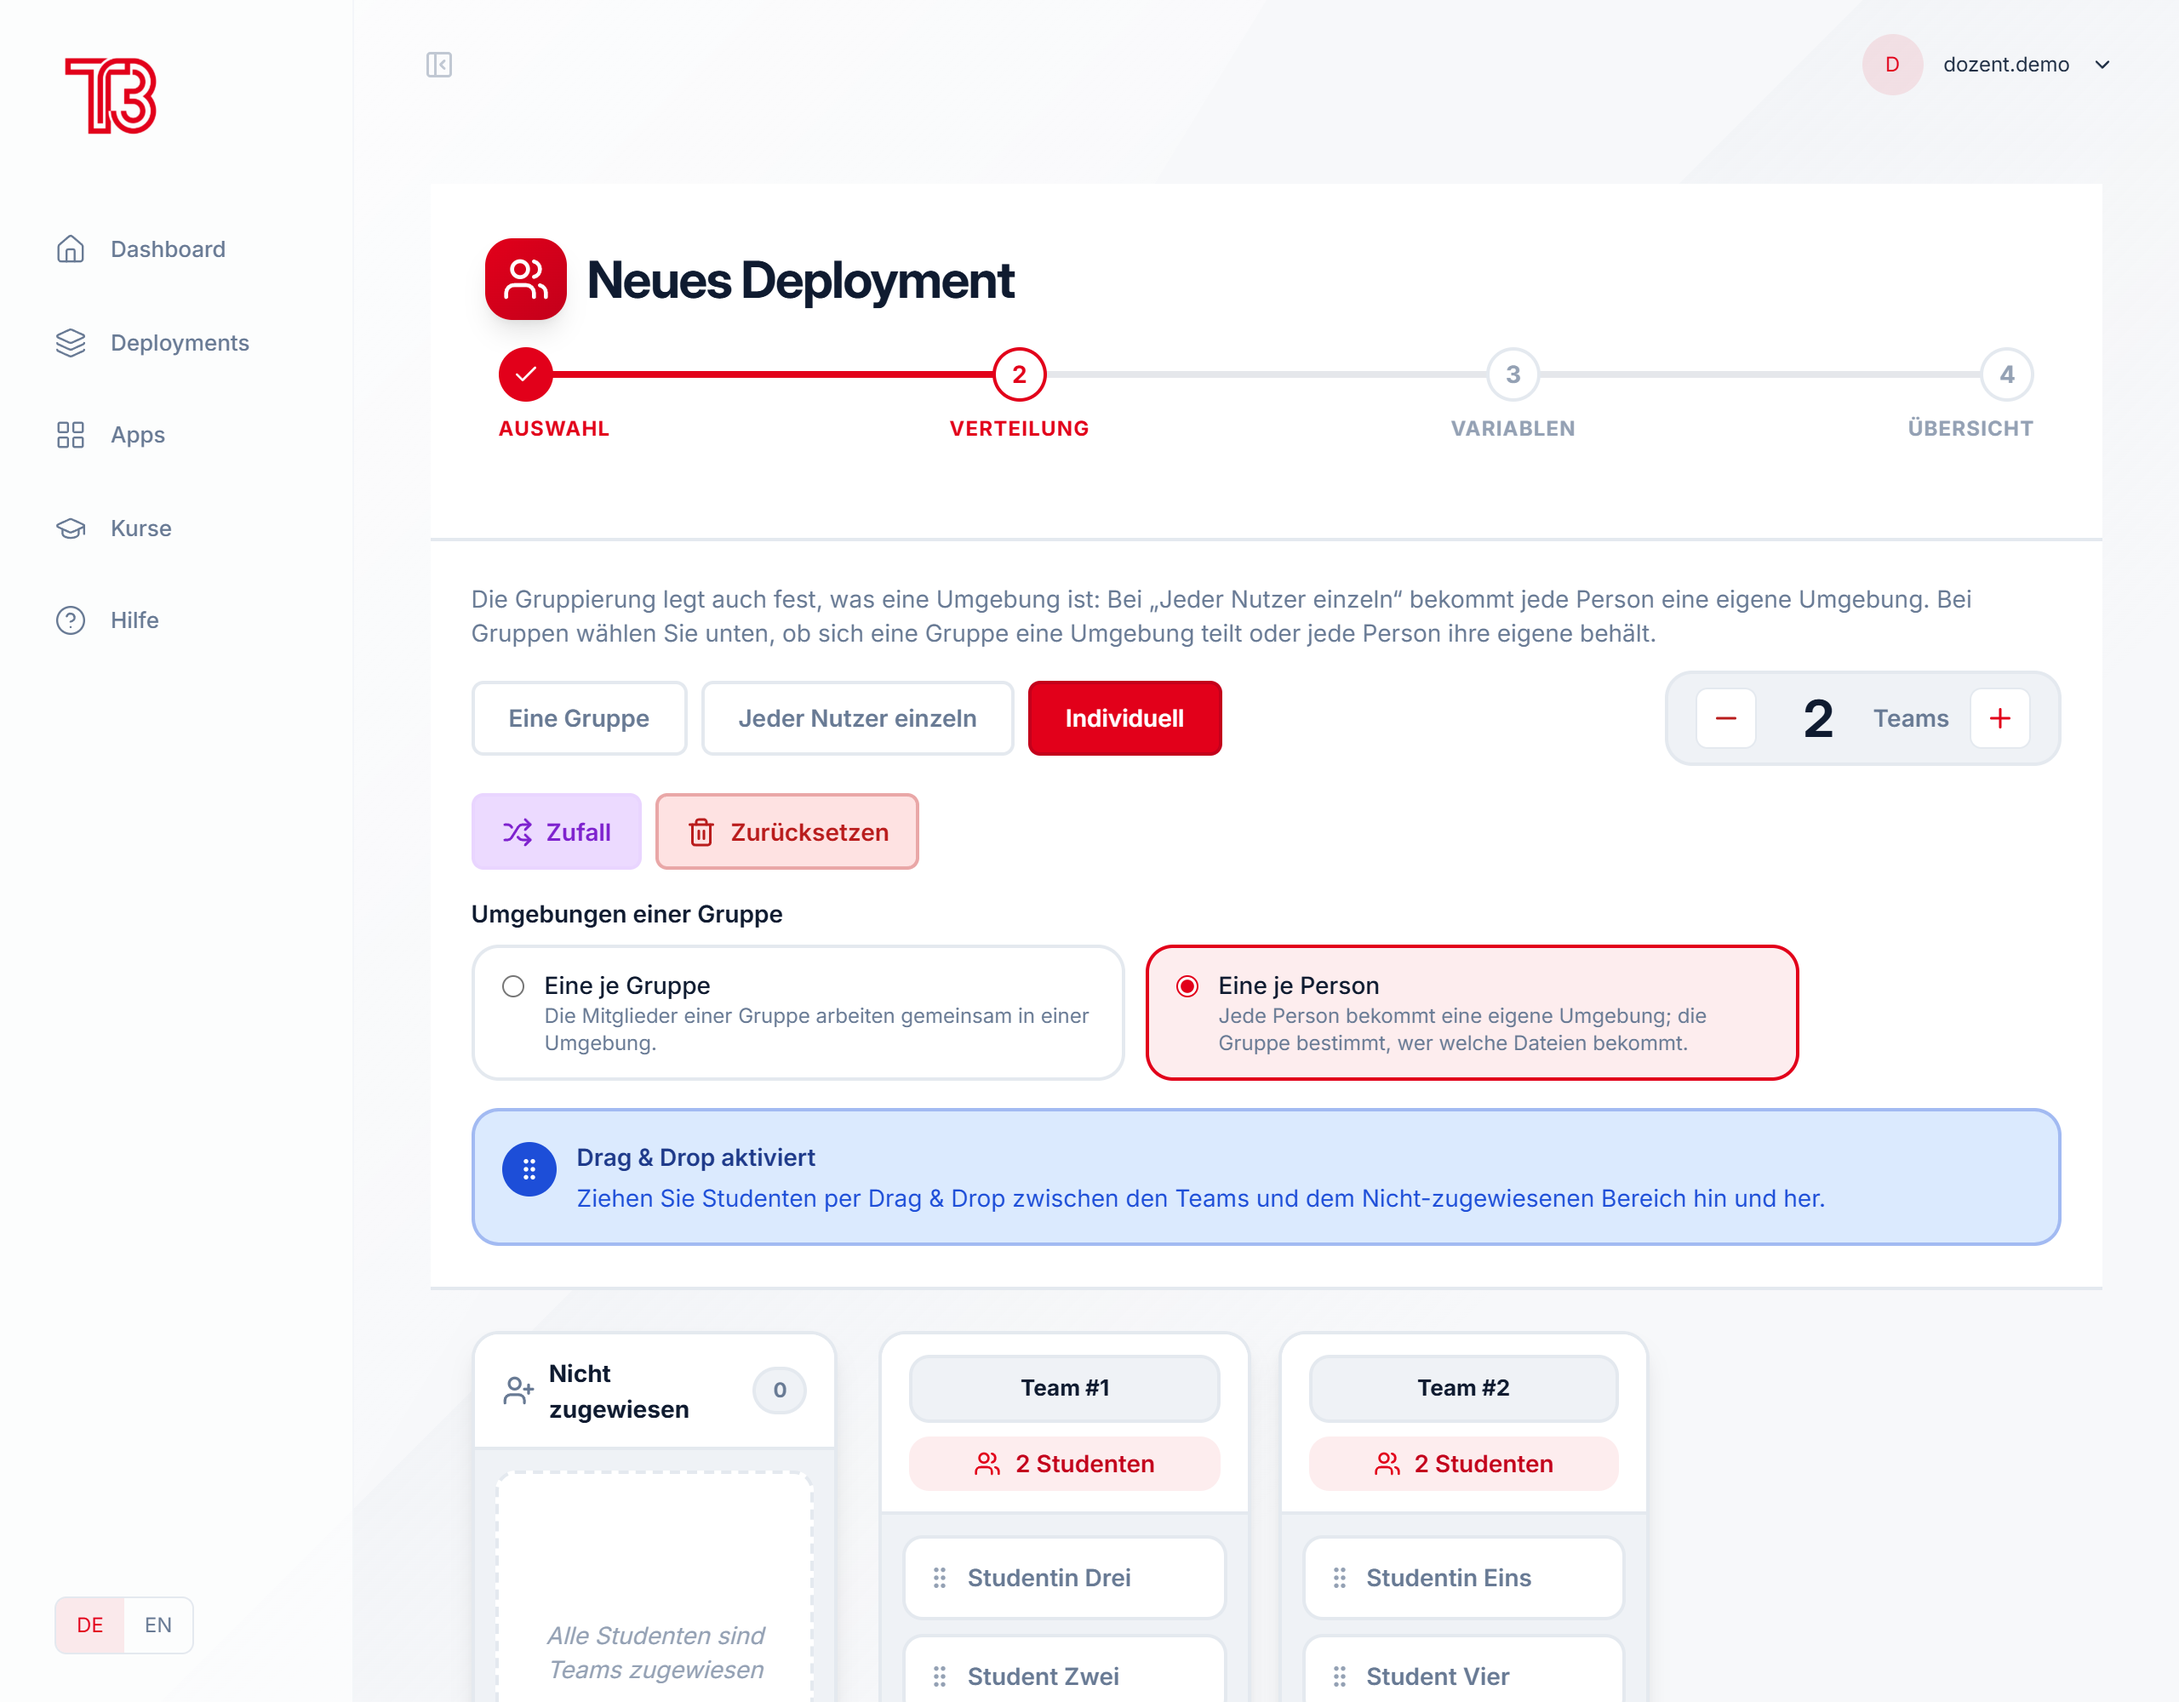
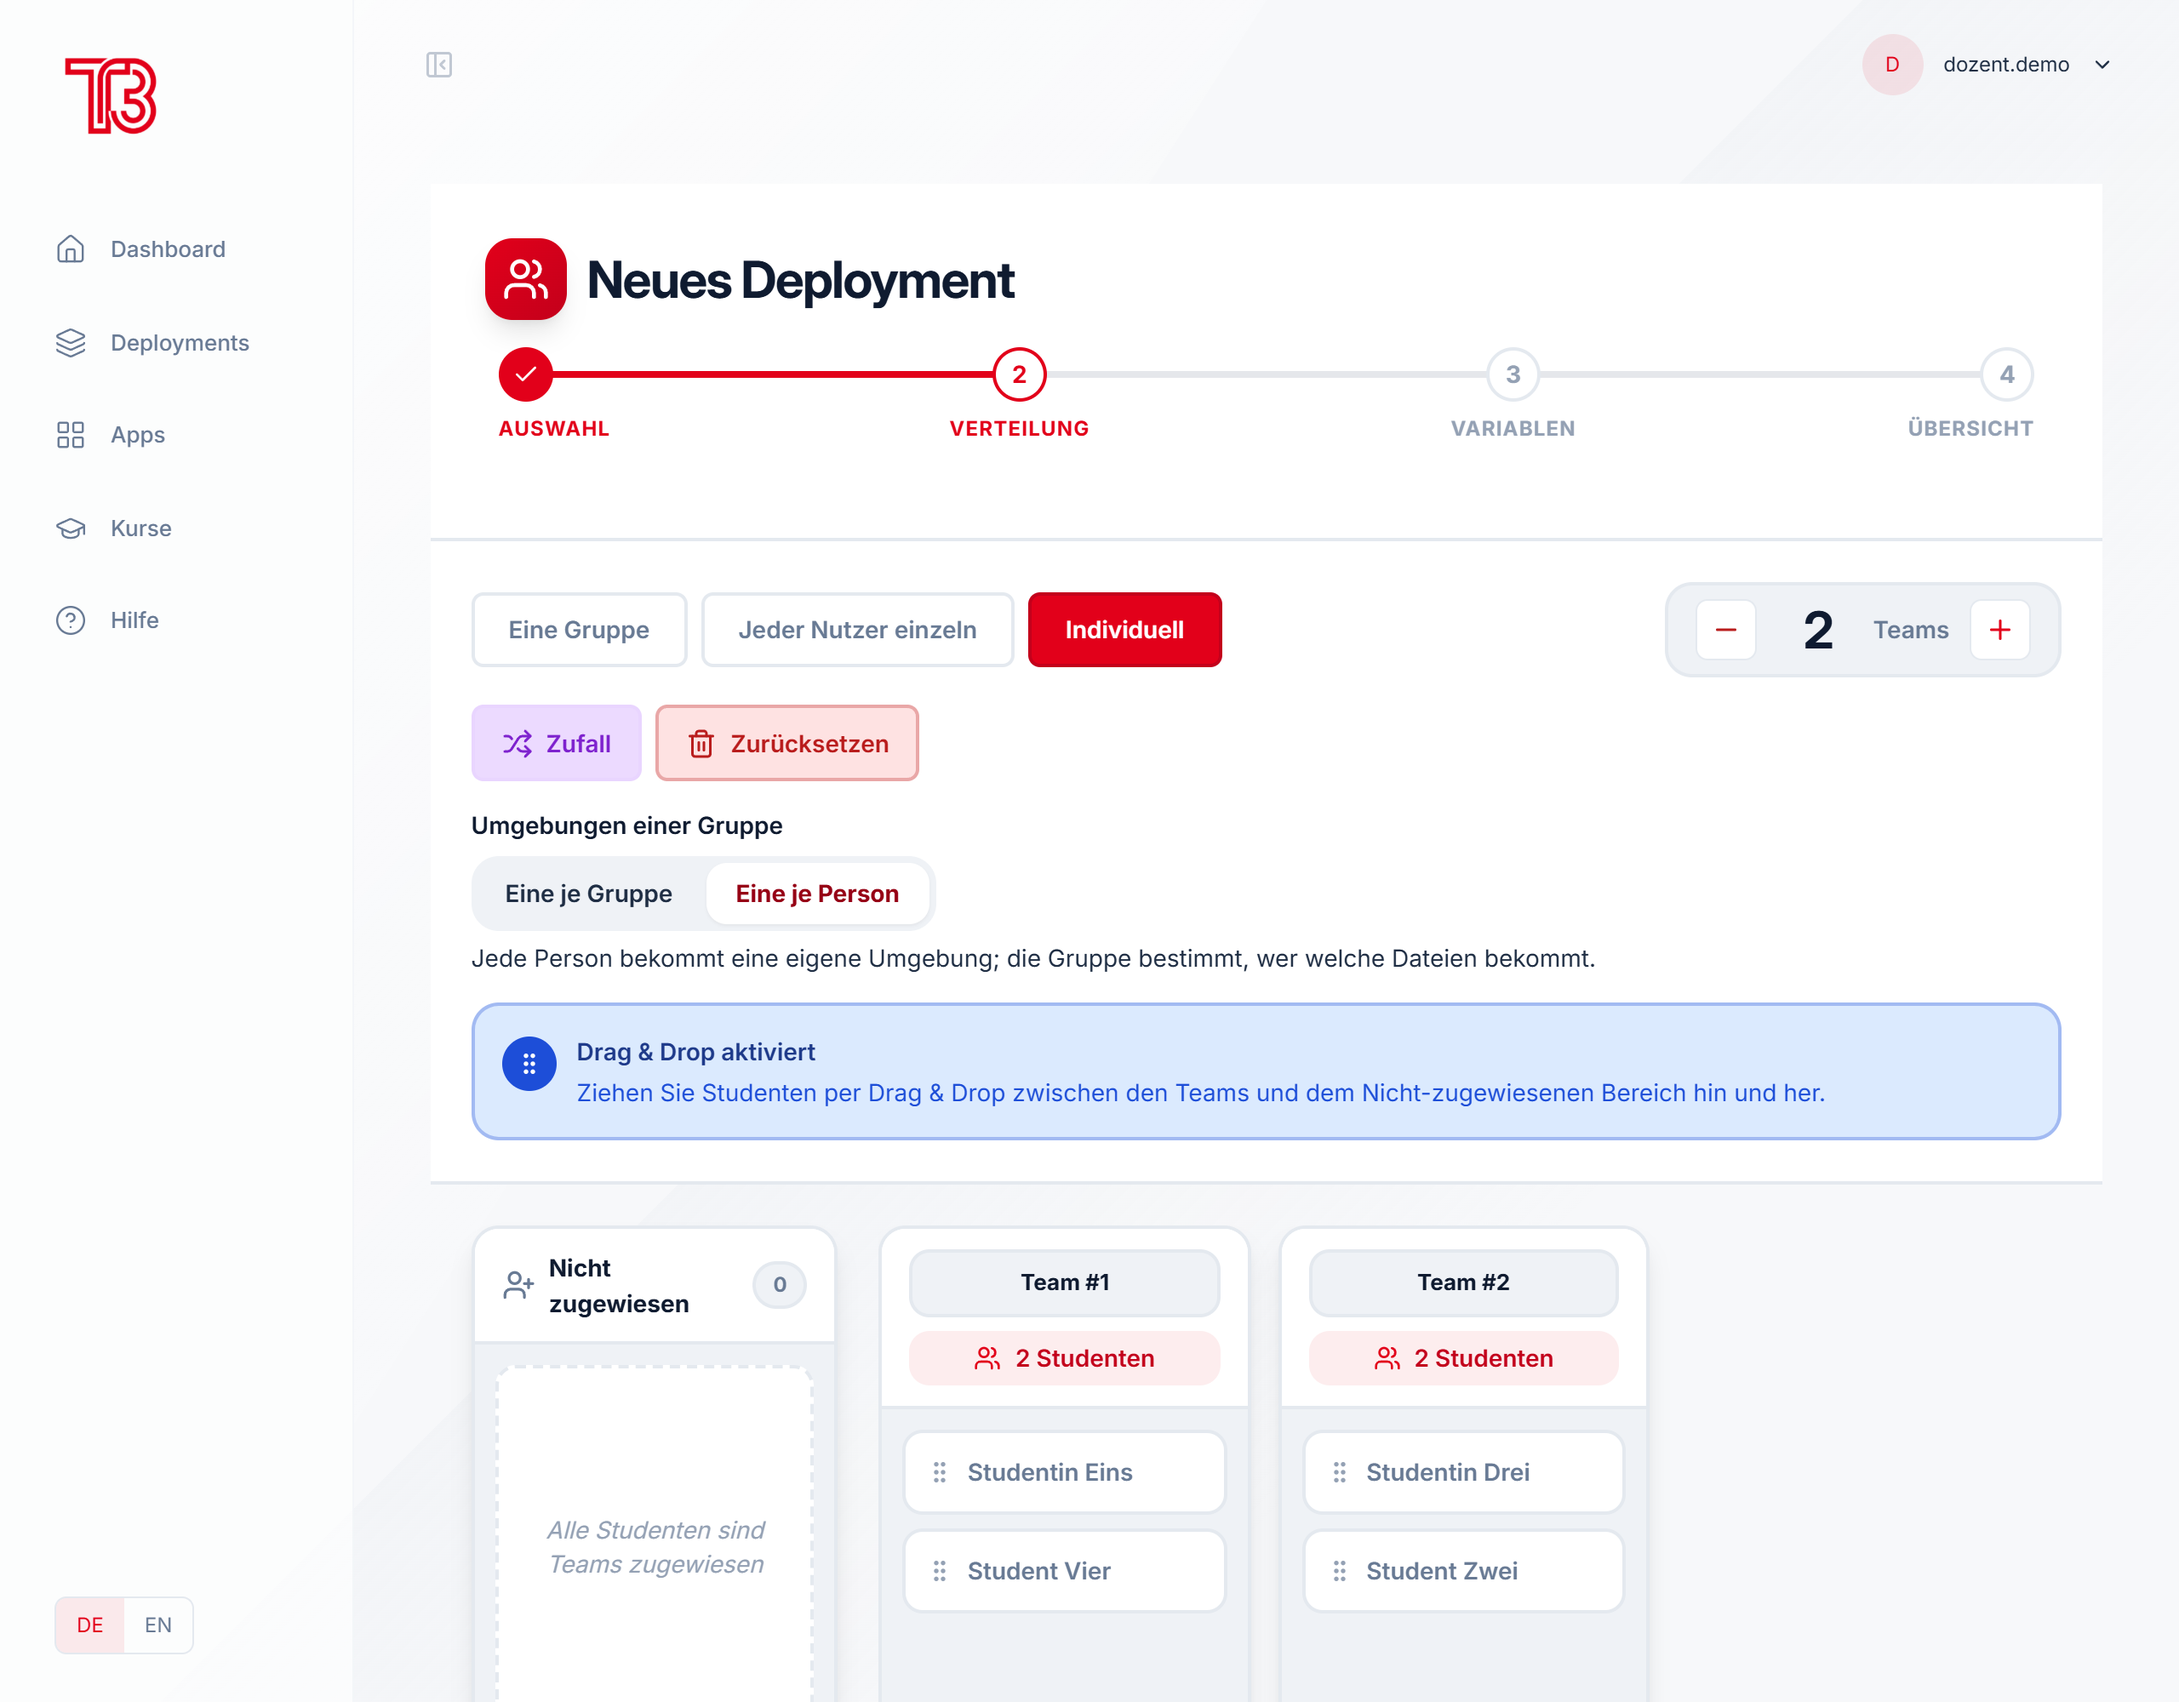
docs: the compact environment choice in step 2 (screenshot, text) and the chip in the summary

diff --git a/docs/DokumentationEndnutzer.md b/docs/DokumentationEndnutzer.md
@@ -301,12 +301,12 @@ Alternativ können Sie in der Deployment-Übersicht oben rechts auf **+ Neues De
 
    Die Verteilung legt auch fest, wie viele Umgebungen (Pods bzw. Desktops) entstehen:
    * Läuft die App **je Person** (Hinweis „App läuft je Person“), bekommt jede Person ein eigenes Team und eine eigene Umgebung; die Verteilung ist dann fest.
-   * Lässt die App die Wahl (auf der App-Seite „je Person oder je Gruppe“), bekommt bei **Jeder Nutzer einzeln** jede Person eine eigene Umgebung. Bei **Eine Gruppe** und **Individuell** wählen Sie unter den Schaltflächen:
+   * Lässt die App die Wahl (auf der App-Seite „je Person oder je Gruppe“), bekommt bei **Jeder Nutzer einzeln** jede Person eine eigene Umgebung. Bei **Eine Gruppe** und **Individuell** wählen Sie unter „Umgebungen einer Gruppe“; darunter steht, was die gewählte Option bedeutet:
      * **Eine je Gruppe:** Die Mitglieder einer Gruppe arbeiten gemeinsam in einer Umgebung.
      * **Eine je Person:** Jede Person bekommt eine eigene Umgebung; die Gruppe bestimmt nur, wer welche Dateien bekommt (z. B. ein Aufgaben-ZIP je Gruppe in der Online-IDE).
    * Sonst bekommt jedes Team eine gemeinsame Umgebung.
 
-   Die Übersicht in Schritt 4 sagt, was daraus wird; erlaubt die App eine Ressourcenauswahl, nennt sie auch die Summe für alle Umgebungen.
+   Die Übersicht in Schritt 4 nennt die Wahl neben der Verteilung (z. B. „Eine Umgebung je Person“) und sagt, wie viele Umgebungen daraus werden; erlaubt die App eine Ressourcenauswahl, nennt sie auch die Summe für alle Umgebungen.
 
 <figure style="margin-bottom: 30px;">
   <img src="img/Studenten_Verteilen.png" alt="Studenten verteilen" width="80%">
